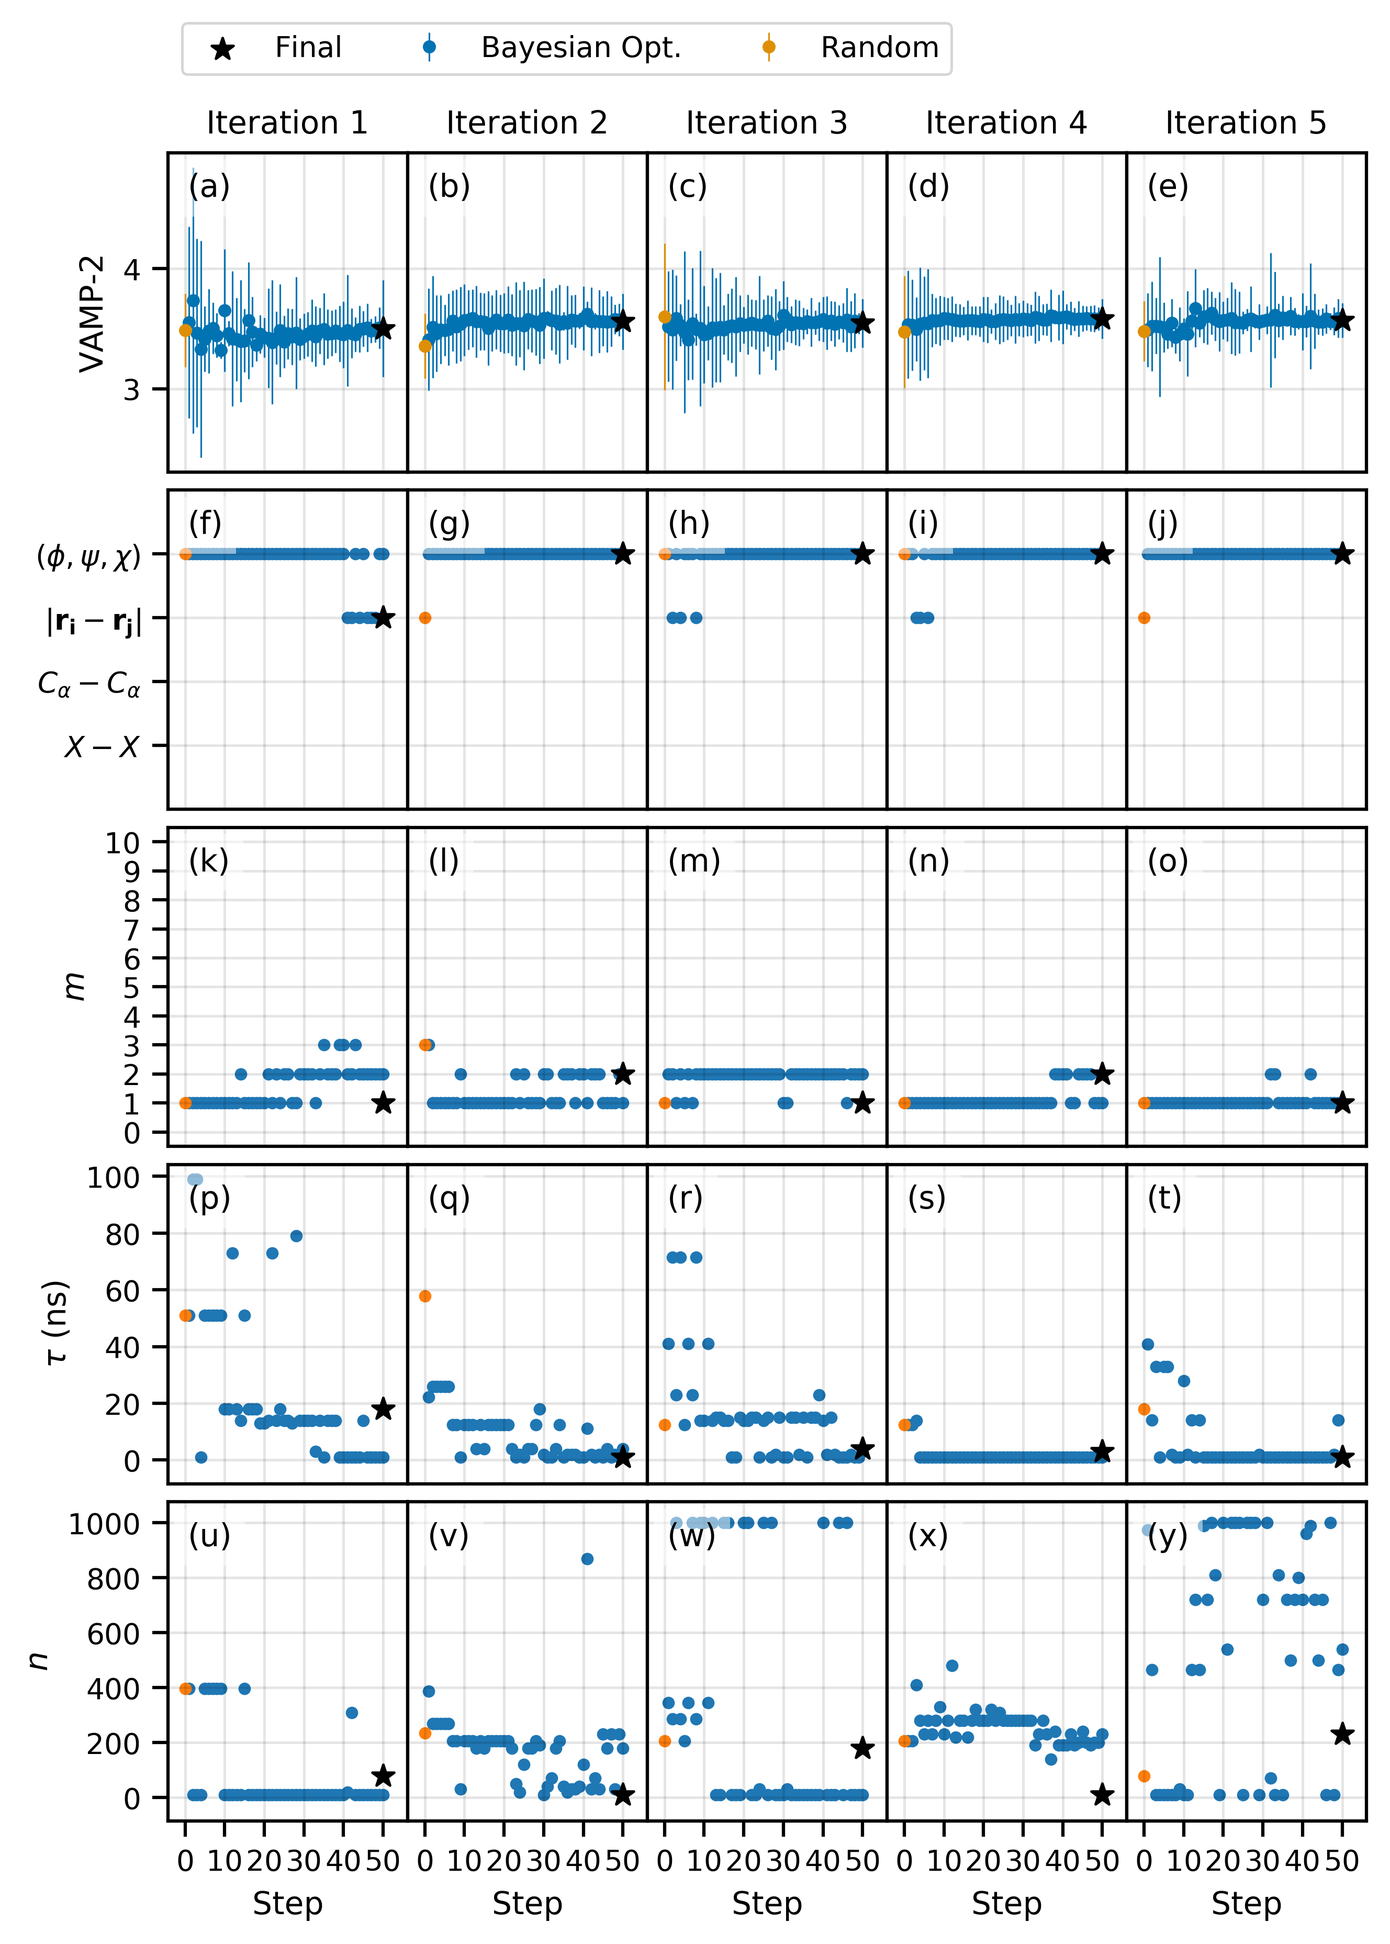
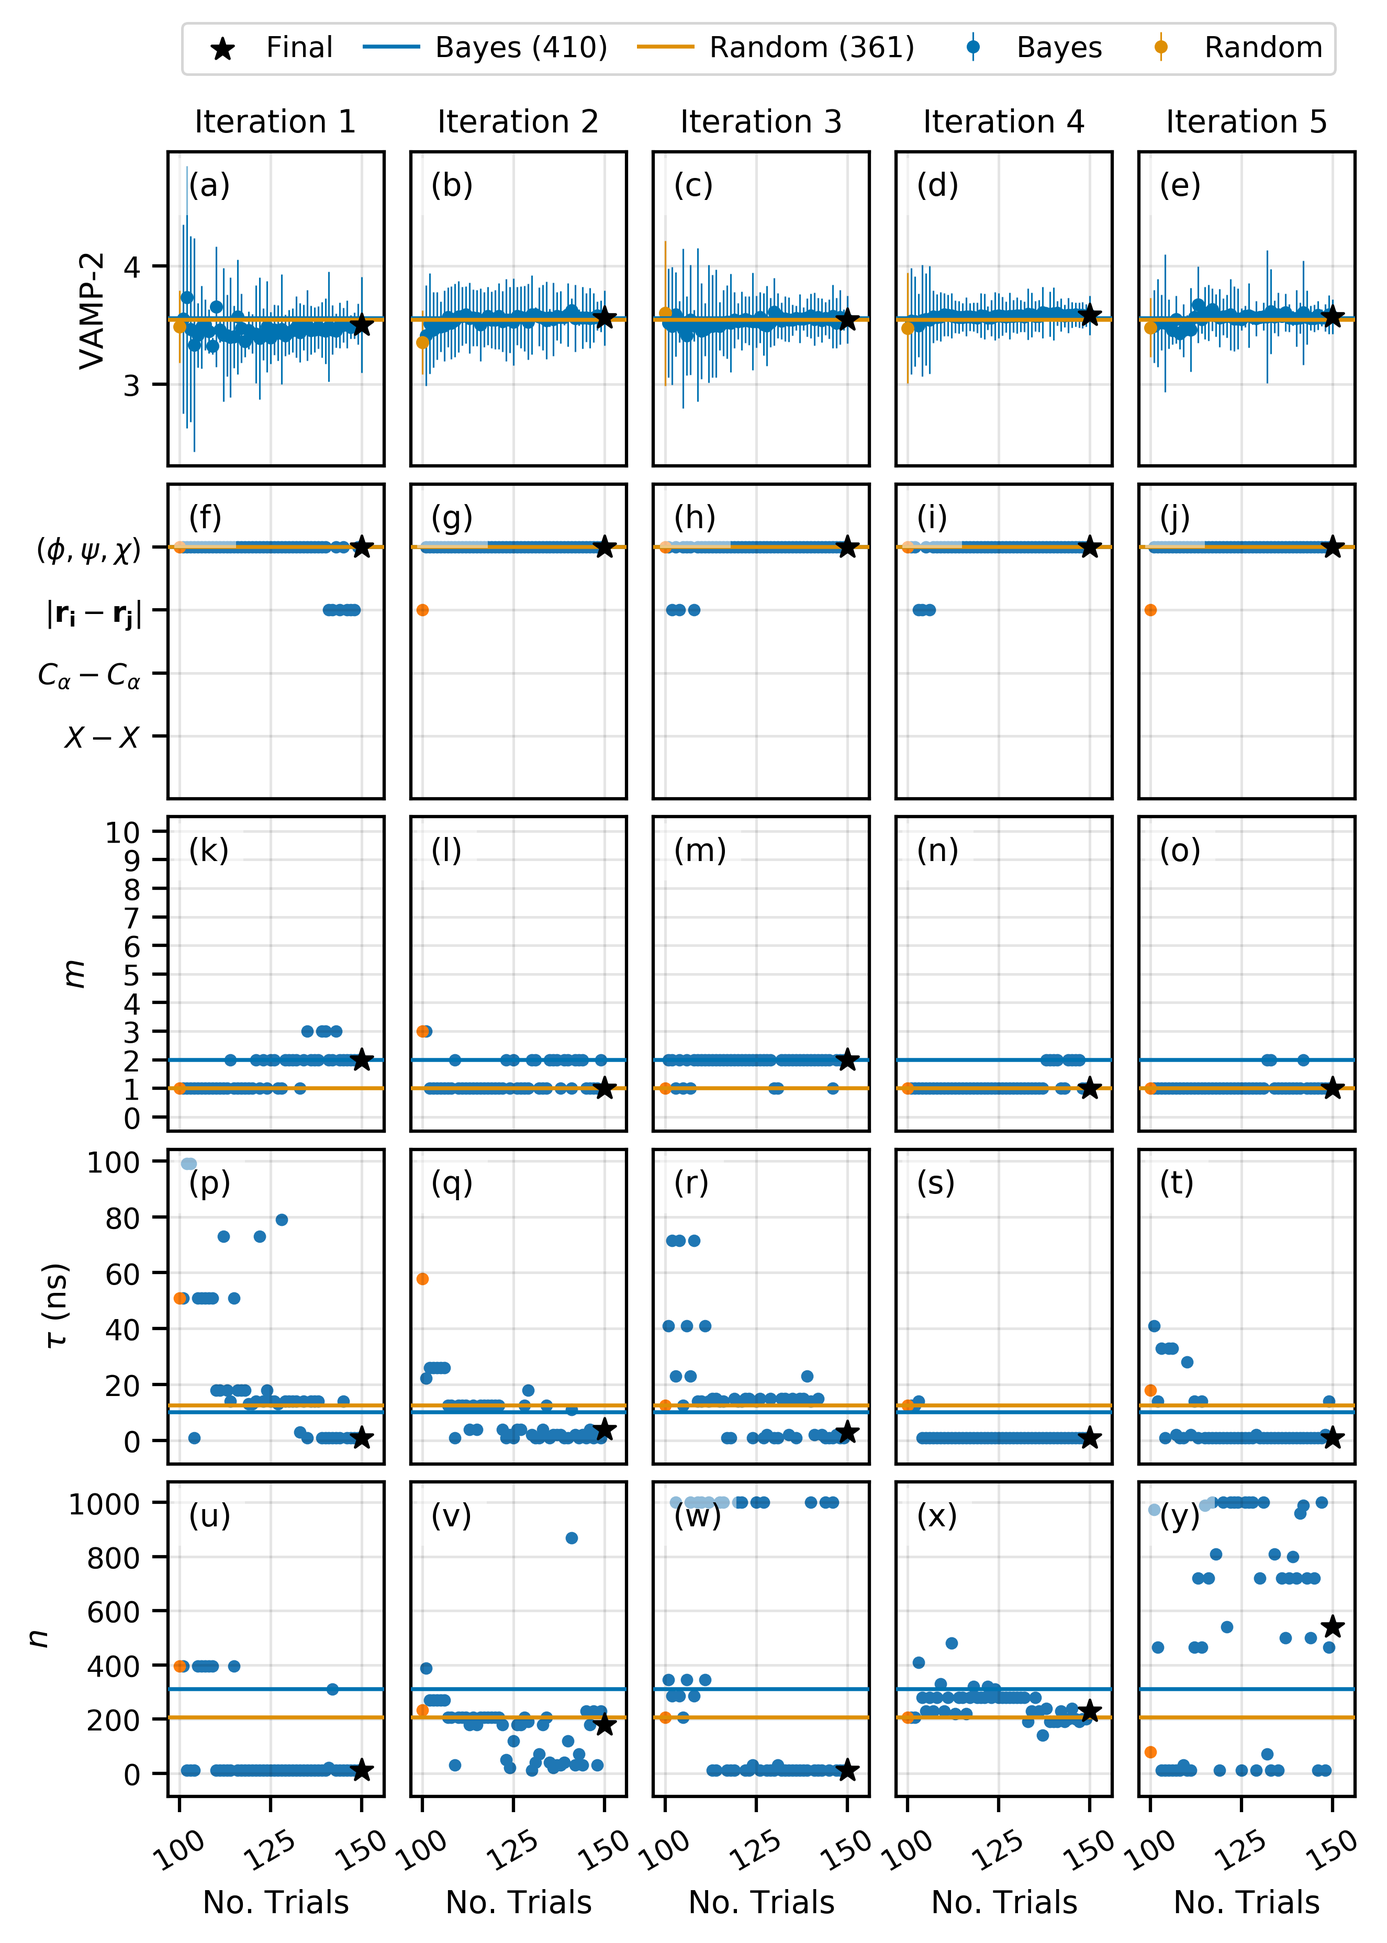
Started discussion of checking the tau, k assumptions of MSM

diff --git a/chapters/msm_optimization/text.tex b/chapters/msm_optimization/text.tex
@@ -184,7 +184,7 @@ To avoid over-fitting in measuring the response I used $20$ iterations of 50:50 
 
 The model was then scored on the remaining \SI{50}{\percent} (the test data) using the same pipeline without re-estimating the various model parameters. This was repeated $20$ times, shuffling the trajectories in between each iteration.  The final trial response was calculated as the mean of the scores on the test data. The expression for calculating the cross-validated VAMP scores is described in \cite{mcgibbonVariationalCrossvalidationSlow2015} and \cite{wuVariationalApproachLearning2019}.  The mean training and test responses are shown for alanine dipeptide in Figure \ref{fig:ala1_train_test} and for AADH in Figure \ref{fig:aad_train_test} while the details of each trial data set are summarised in table \ref{tab:trial_specs}. All MSM fitting and MD trajectory analysis was performed in Python 3.7 using the packages PyEMMA \cite{schererPyEMMASoftwarePackage2015a}, MDTraj \cite{mcgibbonMDTrajModernOpen2015}, NumPy \cite{waltNumPyArrayStructure2011}, Pandas \cite{mckinneyPandasFoundationalPython2011}, Matplotlib \cite{hunterMatplotlib2DGraphics2007},  Seaborn \cite{michaelwaskomMwaskomSeabornV02020} and the Jupyter Project \cite{kluyverJupyterNotebooksPublishing2016}. 
 
-\subsection{Modelling the response surface}\label{sec:rsm}
+\subsection{Modelling the response surface}\label{subsec:rsm}
 The response surface of both systems was modelled using Gaussian process regression (GPR) with the $\operatorname{VAMP-2}$ score measured on the test data as a response and the MSM hyper-parameters as predictors. A variety of combinations of predictor transformations and covariance structures were tried the best combinations for each response surface determined using standard GPR model selection techniques. 
 
 To reduce the computational effort required to fit the GPR models, a sparse approximation to the full covariance of the GP, called the Fully Independent Training Conditional (FITC), was used \cite{quinonero-candelaUnifyingViewSparse2005}. In this approximation a number of observations must be designated as inducing points. This number was set to $\SI{10}{\percent}$ of the total number of observations and their location determined by k-means clustering. This fraction was chosen by fitting a GPR with the number of inducing points ranging from $\SI{10}{\percent}$ to $\SI{100}{\percent}$ of the total observations. The quartiles of the posterior for each variable of the model were independent of the number of inducing points in this range. See \ref{sec:msm_opt_app} for details. 
@@ -238,13 +238,13 @@ The final estimated response surface, $\hat{f}(\mathbf{\lambda})$, for alanine d
 
 All GPR modelling was performed with the Python package PyMC3 \cite{salvatierProbabilisticProgrammingPython2016} with some visualisation performed using package GPy \cite{gpy2014}. 
 
-\subsection{Hyper-parameter relevance}
+\subsection{Hyper-parameter relevance}\label{subsec:meth_rel}
 The characteristic length-scales of the GP kernels, $l$, determine the correlation of the response between points with different values of the accompanying predictor. For $l=1$ with an exponential kernel then inputs separated by $|x-x^{\prime}|= 1$ will on average have a correlation of $\exp^{-0.1}\simeq 0.9$. This means for large values of $l$ the response with respect to changes in $x$ will be flat, or in other words, $x$ is irrelevant to determining the response. This prompts the definition of \emph{relevance}, $R = \sfrac{1}{l}$: when $R$ is large, the small changes in $x$ result in larger changes in the response, meaning it is relevant to determining the response. Henceforth, the kernel functions (equations \ref{eqn:kern_exp} - \ref{eqn:kern_m52}) will be parameterized by $R$ instead of $l$. 
 
 The relevance of the MSM hyper-parameters is important quantity and so to calculate the uncertainty a fully Bayesian approach was used. The same GP model was used to calculate the relevance as was used in modelling the response surface, i.e. same kernel and same predictor transformations. Instead of using the MAP estimates for the GP hyper-parameters, the full posterior distribution was sampled using Markov Chain Monte Carlo and a No U-Turn sampler with two independent chains with $500$ tuning steps and $1000$ sampling steps. Convergence was checked using the R-hat statistic (\cite{gelmanBayesianDataAnalysis2014}). 
 
 
-\subsubsection{MSM Optimization}\label{sec:meth_opt}
+\subsubsection{MSM Optimization}\label{subsec:meth_opt}
 The maximum of the response surface \emph{at the trial values} (known as the incumbent $(\mu^{*}, \mathbf{\lambda}^{*}$, \cite{shahriariTakingHumanOut}) gives the optimum hyper-parameters  by making full use of all the trial information. Bayesian optimisation was used to determine whether it is possible to arrive at the same incumbent, or better, using a smaller number of trials. A limited optimisation procedure was first performed on alanine dipeptide to demonstrate its effectiveness and to determine some of its parameters. A more extensive optimisation procedure was then performed on AADH. General introductions to Bayesian optimisation which cover all the methods used here can be found in \cite{snoekPracticalBayesianOptimization} and \cite{shahriariTakingHumanOut}. 
 
 Bayesian optimization is a method for optimizing ``black-box'' objective functions - those which can be sampled from but are otherwise unknown. The response of an MSM to its hyper-parameters is a black-box objective function because it is not possible to determine the response without first fitting the MSM. Bayesian optimisation is a type of sequential model based \cite{hutterSequentialModelbasedOptimization2011} optimisation technique. These techniques entail first sampling the response of the objective function over its search space to create a trial data set. A statistical model called the \emph{surrogate function}, which serves as a proxy for the objective function, is built using the sampled responses. An utility function, known as the \emph{acquisition function}, determines the anticipated utility of a set of inputs in optimizing the objective function, based on the predictions and uncertainty in the surrogate function.  The objective function is then sampled using the set of inputs which maximize the acquisition function. This new trial is added to trial data set and process repeated. This algorithm in summarised in xxx. 
@@ -426,7 +426,6 @@ There are a number of observations of the optimisation trajectories which reflec
 % \end{figure}
 
 \subsection{Aromatic Amine Dehydrogenase}\label{subsec:aadh}
-
 \subsubsection{Response surface}\label{subsubsec:aadh_rsm}
 The average MSM response for each trial are shown in figure \ref{fig:aad_train_test}, shown grouped in panels according to the value $\chi$,  and ranked according to mean test response (shown in blue). The panels are ordered according to their average of the test responses and the mean response on the training data is shown in orange. There is clear range of response values in the range $2 < VAMP-2 < 4$ with the $(\phi, \psi, \chi)$ torsions and the interatomic distances feature ( $\left|\mathbf{r}_{1}-\mathbf{r}_{2}\right|$) both performing the best out of the five features. 
 
@@ -434,11 +433,16 @@ The response surface as a function of the feature, $\chi$, TICA lag time, $\tau$
 
 The RMSD feature was left out of the response surface because the $\tau$ and $m$ hyper-parameters do not apply and this poses problems for incorporating this feature into the response surface modelled by a GP.  While this is a problem in general for this method, the poor performance of RMSD as a feature both here, in alanine dipeptide mean that this does not impact many of the conclusions that can be drawn. 
 
-The multidimensional nature of the response surface poses problems for visualisation. However, calculating the hyper-parameter relevance before attempting to do this can help by guiding in the displayed granularity of the inputs. Figure \ref{fig:aadh_relevance} shows the relevance for the levels of $\chi$ (in blue) and the remaining hyper-parameters (orange) and figure \ref{fig:aadh_rsm} show the response surface. $\tau$ and $m$ are the two highest relevance features so the response surface is shown as a 2D heat map with $\tau$ on the vertical and $m$ on the horizontal axis. Only odd values of $m$ are shown give the slightly lower relevance of this feature. The number of cluster features is again the lowest relevance feature and so heat maps for only two value of $n$ are shown. With only four features, it is relatively simple to show the response surface for each of them. As all features are relatively low relevance their response surfaces are expected to be very similar. 
+The multidimensional nature of the response surface poses problems for visualisation. However, calculating the hyper-parameter relevance before attempting to do this can help by guiding in the displayed granularity of the inputs. Figure \ref{fig:aadh_relevance} shows the relevance for the levels of $\chi$ (in blue) and the remaining hyper-parameters (orange) and figure \ref{fig:aadh_rsm} show the response surface. $\tau$ and $m$ are the two highest relevance features so the response surface is shown as a 2D heat map with $\tau$ on the vertical and $m$ on the horizontal axis. Only odd values of $m$ are shown give the slightly lower relevance of this feature. The number of cluster features is again the lowest relevance feature and so heat maps for only two value of $n$ are shown: the value at the maximum ($n=207$ although the value displayed was rounded to $210$) and $n=1000$. With only four features, it is relatively simple to show the response surface for each of them. As all features are relatively low relevance their response surfaces are expected to be very similar. The maximum of the response surface is shown highlighted in white and the corresponding values are shown in table \ref{tab:aadh_opt_results}. 
 
-The relatively higher response for low values of $m$ and $\tau$ is clearly shown for each feature, although on average the the contact distance based features clearly have a lower response. 
+In order to test the convergence of this maximum, 50 steps of Bayesian optimisation was performed seeding the algorithm with all $361$ trials. This resulted in a small, $\SI{0.5}{\percent}$ improvement in the response and small changes in the optimal hyper-parameters.  In order to see whether this maximum could be reached with a few number of trials, five subsets of the trial data set, with 100 observations, were optimized with 50 steps of Bayesian optimisation. The response surface kernel and input transformations were determined by the GP model selection methods described in section \ref{subsec:rsm}. 
 
-Despite the higher relevance of $\tau$ the response drop s
+The incumbent trajectories are shown in are shown in figure \ref{fig:aadh_opt_traj_d}. The maximum of the response surface with $N=361$ randomly sampled trials are shown as orange lines, and the maximum of the surface with an $N=410$ trials including the $50$ steps of Bayesian optimisation are shown as blue lines.  The figure clearly shows that the Bayesian optimisation does not improve the maximum of the response nor does it greatly affect the value of the optimal hyperparameters. The uncertainty in the incumbent decreased in three of the five incumbent trajectories however.  The final and starting values of the optimisation trajectories are tabulated in table \ref{tab:aadh_opt_results}. 
+
+These optimisation results clearly indicate that the response surface is reasonably well converged for even $100$ trials and that the number of seed trials determined from alanine dipeptide was not applicable here.  
+
+
+
 
 \begin{figure}[ht]
     \centering
@@ -461,31 +465,18 @@ Despite the higher relevance of $\tau$ the response drop s
     \hline
        Sampling &        Label &  Num. Trials & $\mu$ & $\sigma$ &                $\chi$ & $\tau$ & $m$ & $n$ \\
     \hline\hline
-         Random &              &          361 &  3.54 &     0.20 &  $(\phi, \psi, \chi)$ &   12.5 &   1 & 207 \\
-     Bayes Opt. &              &          410 &  3.56 &     0.09 &  $(\phi, \psi, \chi)$ &   10.0 &   2 & 310 \\
-     Bayes Opt. &  Iteration 0 &          150 &  3.50 &     0.20 &  $(\phi, \psi, \chi)$ &    1.0 &   2 &  10 \\
-     Bayes Opt. &  Iteration 1 &          150 &  3.56 &     0.12 &  $(\phi, \psi, \chi)$ &    4.0 &   1 & 180 \\
-     Bayes Opt. &  Iteration 2 &          150 &  3.54 &     0.10 &  $(\phi, \psi, \chi)$ &    3.0 &   2 &  10 \\
-     Bayes Opt. &  Iteration 3 &          150 &  3.58 &     0.08 &  $(\phi, \psi, \chi)$ &    1.0 &   1 & 230 \\
-     Bayes Opt. &  Iteration 4 &          150 &  3.57 &     0.07 &  $(\phi, \psi, \chi)$ &    1.0 &   1 & 540 \\
+         Random &              & 361 &  3.54 & 0.20 &  $(\phi, \psi, \chi)$ &   12.5 &   1 & 207 \\
+     Bayes Opt. &              &410 &  3.56 & 0.09 &  $(\phi, \psi, \chi)$ &   10.0 &   2 & 310 \\
+     Bayes Opt. &  Iteration 0 &150 &  3.50 & 0.20 &  $(\phi, \psi, \chi)$ &    1.0 &   2 &  10 \\
+     Bayes Opt. &  Iteration 1 &150 &  3.56 & 0.12 &  $(\phi, \psi, \chi)$ &    4.0 &   1 & 180 \\
+     Bayes Opt. &  Iteration 2 &150 &  3.54 & 0.10 &  $(\phi, \psi, \chi)$ &    3.0 &   2 &  10 \\
+     Bayes Opt. &  Iteration 3 &150 &  3.58 & 0.08 &  $(\phi, \psi, \chi)$ &    1.0 &   1 & 230 \\
+     Bayes Opt. &  Iteration 4 &150 &  3.57 & 0.07 &  $(\phi, \psi, \chi)$ &    1.0 &   1 & 540 \\
     \hline
     \end{tabular}
     \caption{Caption}
-    \label{tab:my_label}
+    \label{tab:aadh_opt_results}
 \end{table}
-
-\begin{figure}
-    \centering
-    \caption{The $\operatorname{VAMP-2}$ scores of the hyperparameter trials for MSMs of AADH with featurised with (a) the $\phi, \psi, \chi$ torsions, (b) all distances between heavy atoms, (c) alpha-Carbon contact distances, (d) heavy atom contact distances, (e) root mean square deviation of heavy atoms. The trials are scored on the test set (blue) and on the training set (orange) for the H active site. The horizontal axis is the rank of the trial according to the test score. Each trial was scored with 20 iterations of 50:50 shuffle split cross validation. The error bars represent the 25th and 75th quantiles of the cross-validation folds. The features are ordered according to the mean of the their test scores.}
-    \includegraphics[width=0.8\textwidth]{chapters/msm_optimization/figures/aadh_train_test_results.png}
-    \label{fig:aad_train_test}
-\end{figure}
-
-
-
-
-\subsubsection{Optimization}
-
 
 \begin{figure}
     \centering
@@ -493,6 +484,32 @@ Despite the higher relevance of $\tau$ the response drop s
     \caption{Caption}
     \label{fig:aadh_opt_traj_d}
 \end{figure}
+
+\subsubsection{Response surface and MSM observables}
+
+\begin{figure}[ht!]
+    \centering
+    \mycaption{AADH implied timescales}\label{fig:aadh_its}
+    \subtop[$1<\tau^{MSM}<\SI{5}{\nano\second}$ \label{fig:aadh_its_short}]{
+        \includegraphics[width=0.4\linewidth]{chapters/msm_optimization/figures/aadh_implied_timescales_short.png}}
+    
+    \subtop[$1<\tau^{MSM}<\SI{50}{\nano\second}$\label{fig:aadh_its_long}]{
+        \includegraphics[width=0.4\linewidth]{chapters/msm_optimization/figures/aadh_implied_timescales_long.png}}
+\end{figure}
+
+So far the response surface for AADH has been modelled and optimised with a combination of randomly sampling and Bayesian optimisation under two assumptions about the model specification: that $\tau^{MSM}$ and $k$, the number of eigenvalues in the VAMP-2 score, are correctly specified. To test this figure \ref{fig:aadh_its} shows the eigenvalue spectrum as a function of $\tau^{MSM}$ for the optimum hyperparameters. Panel (a) shows detail around the  $\tau^{MSM} \simeq 2$ which clearly shows the top three implied timescales \footnote{$k=4$ in the VAMP-2 score but this includes the trivial eigenvalue $\lambda = 1$} are increasing albeit slowly which suggests that $\tau^{MSM}$ is too small. Looking at the implied timescales on a longer timescale $1 < \tau^{MSM} < \SI{50}{\nano\second}$ (panel (b)) shows that the longest relaxation process never becomes independent of $\tau$, while the second longest process does become independent at around $\SI{20}{ns}$. 
+
+At $\tau = \SI{2}{\nano\second}$ there is a clear separation of timescales between the fourth and and fifth timescales suggesting $k=5$ would be more appropriate. However at $\tau = \SI{20}{\nano\second}$ a there is a clear separation between the third and fourth timescale, suggesting $k=4$ is still appropriate.  
+
+
+Despite the relatively high relevance of $\tau$ the response is flat for $\SI{1}{\nano\second} \tau < \SI{50}{\nano\second}$ indicating that the linear approximation to the transfer operator (i.e. TICA) remains constant in this range of time scales. 
+
+
+
+
+The response surface is at its maximum over the range $1 < m < 5$ indicating 
+
+
 
 \subsection{Limitations}
 
@@ -539,6 +556,15 @@ Despite the higher relevance of $\tau$ the response drop s
 \end{figure}
 
 \subsection{AADH}
+
+\begin{figure}
+    \centering
+    \caption{The $\operatorname{VAMP-2}$ scores of the hyperparameter trials for MSMs of AADH with featurised with (a) the $\phi, \psi, \chi$ torsions, (b) all distances between heavy atoms, (c) alpha-Carbon contact distances, (d) heavy atom contact distances, (e) root mean square deviation of heavy atoms. The trials are scored on the test set (blue) and on the training set (orange) for the H active site. The horizontal axis is the rank of the trial according to the test score. Each trial was scored with 20 iterations of 50:50 shuffle split cross validation. The error bars represent the 25th and 75th quantiles of the cross-validation folds. The features are ordered according to the mean of the their test scores.}
+    \includegraphics[width=0.8\textwidth]{chapters/msm_optimization/figures/aadh_train_test_results.png}
+    \label{fig:aad_train_test}
+\end{figure}
+
+
 
 \begin{table}
     \centering
